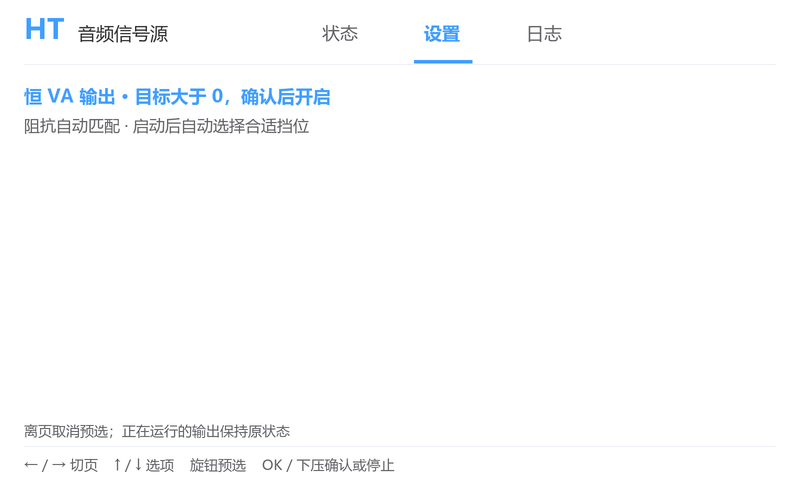
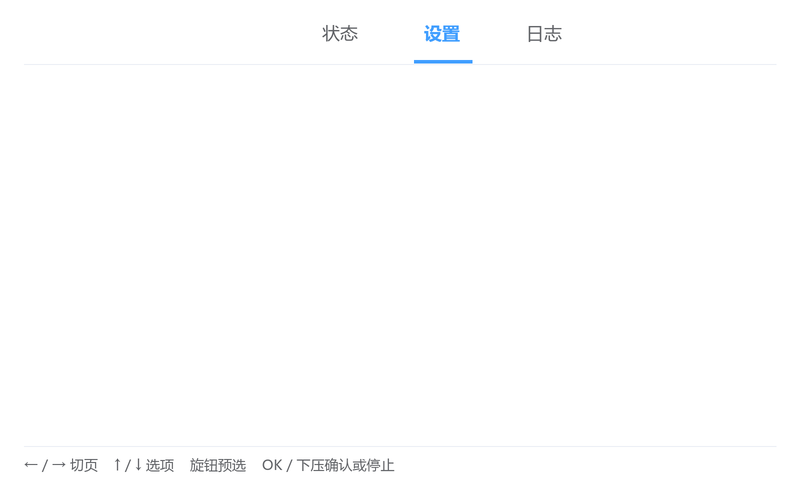
精简屏幕静态文字并记录背景更新

diff --git a/hmi/dwin/preview/index.html b/hmi/dwin/preview/index.html
@@ -34,6 +34,6 @@
   <section class="scenes" aria-label="演示状态"><span>演示状态</span><div><button data-scene="idle" aria-pressed="true">正常待机</button><button data-scene="fault">过流保护示例</button><button data-scene="offline">屏幕离线</button></div><label><input id="battery-alarm" type="checkbox">电池异常示例</label><label><input id="temperature-invalid" type="checkbox">NTC2 无效示例</label><label><input id="bench-disabled" type="checkbox">未启用输出功能</label></section>
   <footer>阻抗由设备自动匹配，状态页显示实际挡位；频率挡位：2 / 5 / 8 / 10 kHz。<br>先设置目标视在功率（1–50 VA），再选择输出控制，右旋预选开启，按 OK 或编码器确认；匹配或输出时再次确认停止。<br>预览以 30 Ω 模拟负载展示匹配过程；电压、电流、温度与日志均为演示数据，不连接硬件。刷新后重置，日志最多保留 32 条。</footer>
 </main>
-<script src="preview.js?v=auto6"></script>
+<script src="preview.js?v=clean6"></script>
 </body>
 </html>

diff --git a/hmi/dwin/preview/preview.js b/hmi/dwin/preview/preview.js
@@ -73,7 +73,7 @@
     return "";
   }
   function image(file,item) {
-    const node=document.createElement("img"); node.src="../"+file+"?v=auto6"; node.alt="";
+    const node=document.createElement("img"); node.src="../"+file+"?v=clean6"; node.alt="";
     Object.assign(node.style,{left:item.x+"px",top:item.y+"px",width:item.width+"px",height:item.height+"px"});
     screen.append(node);
   }

diff --git a/hmi/dwin/tools/build_assets.py b/hmi/dwin/tools/build_assets.py
@@ -47,8 +47,6 @@ class Art:
 
 
 def header(art, page):
-    art.text((24, 18), "HT", 28, COLORS["accent"], True)
-    art.text((78, 25), "音频信号源", 18, COLORS["ink"])
     for index, title in enumerate(["状态", "设置", "日志"]):
         x = 300 + 102 * index
         selected = index == page
@@ -87,9 +85,6 @@ def status_page():
 def settings_page():
     art = Art(800, 480, COLORS["bg"])
     header(art, 1)
-    art.text((24, 88), "恒 VA 输出 · 目标大于 0，确认后开启", 18, COLORS["accent"], True)
-    art.text((24, 118), "阻抗自动匹配 · 启动后自动选择合适挡位", 16, COLORS["muted"])
-    art.text((24, 424), "离页取消预选；正在运行的输出保持原状态", 14, COLORS["muted"])
     footer(art, "← / → 切页    ↑ / ↓ 选项    旋钮预选    OK / 下压确认或停止")
     return art
 

diff --git a/docs/02-digital/软件架构与实现计划.md b/docs/02-digital/软件架构与实现计划.md
@@ -1690,6 +1690,15 @@ VTOR实读0x08010200；运行约116–118秒的三次不停核快照确认时间
 USB链路仍未通；按rev23网表，待断电核对U8.8/TXD→U1.44/PA10及U1.43/PA9→U8.9/RXD的通断/焊接。
 本次未使能输出、未做负载或功放验收，也未完成USB串口整包升级验收。
 
+同日按用户要求删除左上角“HT音频信号源”、设置页“恒VA输出/目标大于0”提示、
+“阻抗自动匹配”说明及“离页取消预选”说明。仅重新生成三页背景与32.icl（151956B、5块），
+图标、控件、VP和操作保持不变；背景像素变化范围核对、预览回归及代码图谱检查通过。
+下载前再次备份完整Flash；屏幕5块RAM逐字节核对一致、Flash操作完成，重启查询65/22及页面0正常。
+正式应用76860B恢复并完整读回一致，引导区保持不变。三次运行快照确认屏幕在线/同步、UART错误为0、
+目标0VA、POWER_IDLE、输出未启动，三路NTC_OK，约33.4/26.1/29.7°C。
+本轮证据位于`.tools/deploy-ui-text-20261003/`。用户确认电流/电压采样接口已接入，
+窗口检测尚未接入（具体信号待确认）；本轮未做采样标定或负载输出验收。
+
 ## 附：这份文档更正/关闭了此前的哪几条
 
 | 出处 | 原文 | 本文 |

diff --git a/CLAUDE.md b/CLAUDE.md
@@ -73,6 +73,9 @@
   目标0VA、POWER_IDLE、继电器输出寄存器0，DAC/TIM6/DMA关闭；未做负载输出测试。
   USB1/COM5能枚举但双向SMP及桥接查询仍无应答，发送未进入MCU；页面通过临时ST-Link队列桥完成，
   正式应用已恢复，USB串口整包升级仍未验收，见§15.11。
+- **2026-10-03 页面文字精简**：已删除左上角“HT音频信号源”及设置页的恒VA输出提示、阻抗自动匹配说明、离页取消预选说明。
+  仅更新三页背景及32.icl（151956B、5块），控件、VP和操作保持不变；正式应用已恢复且完整读回一致。
+  屏幕在线/同步、UART错误为0，目标0VA、POWER_IDLE；用户确认已接入电流/电压采样接口，窗口检测尚未接入，具体信号待确认。
 
 ## 分工（重要）
 
